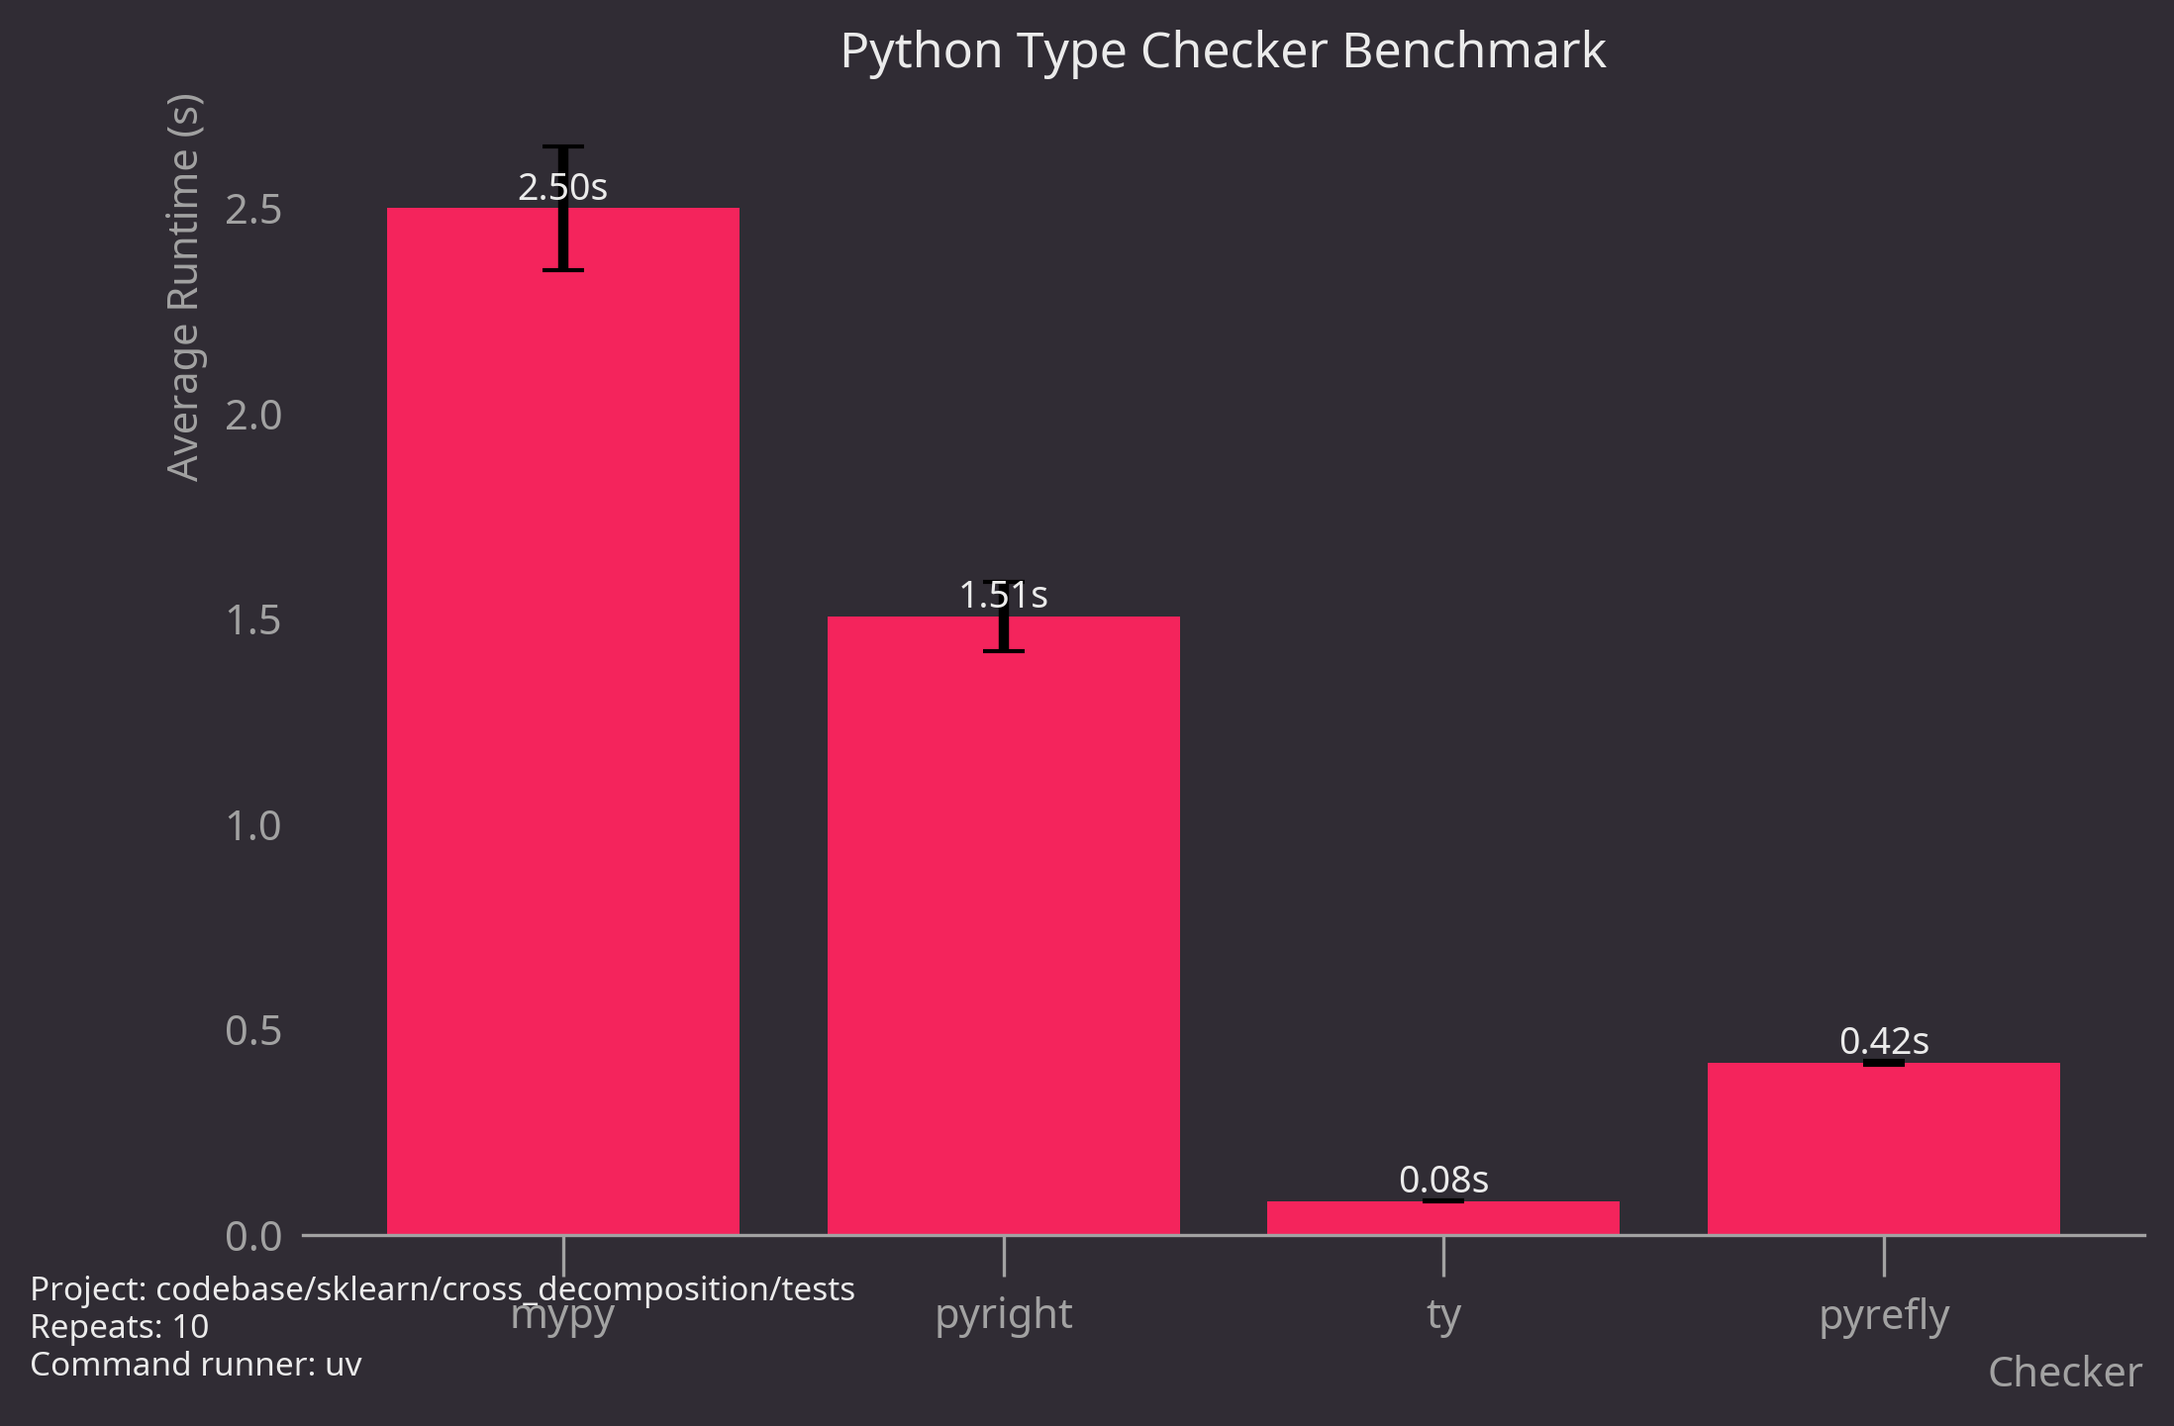
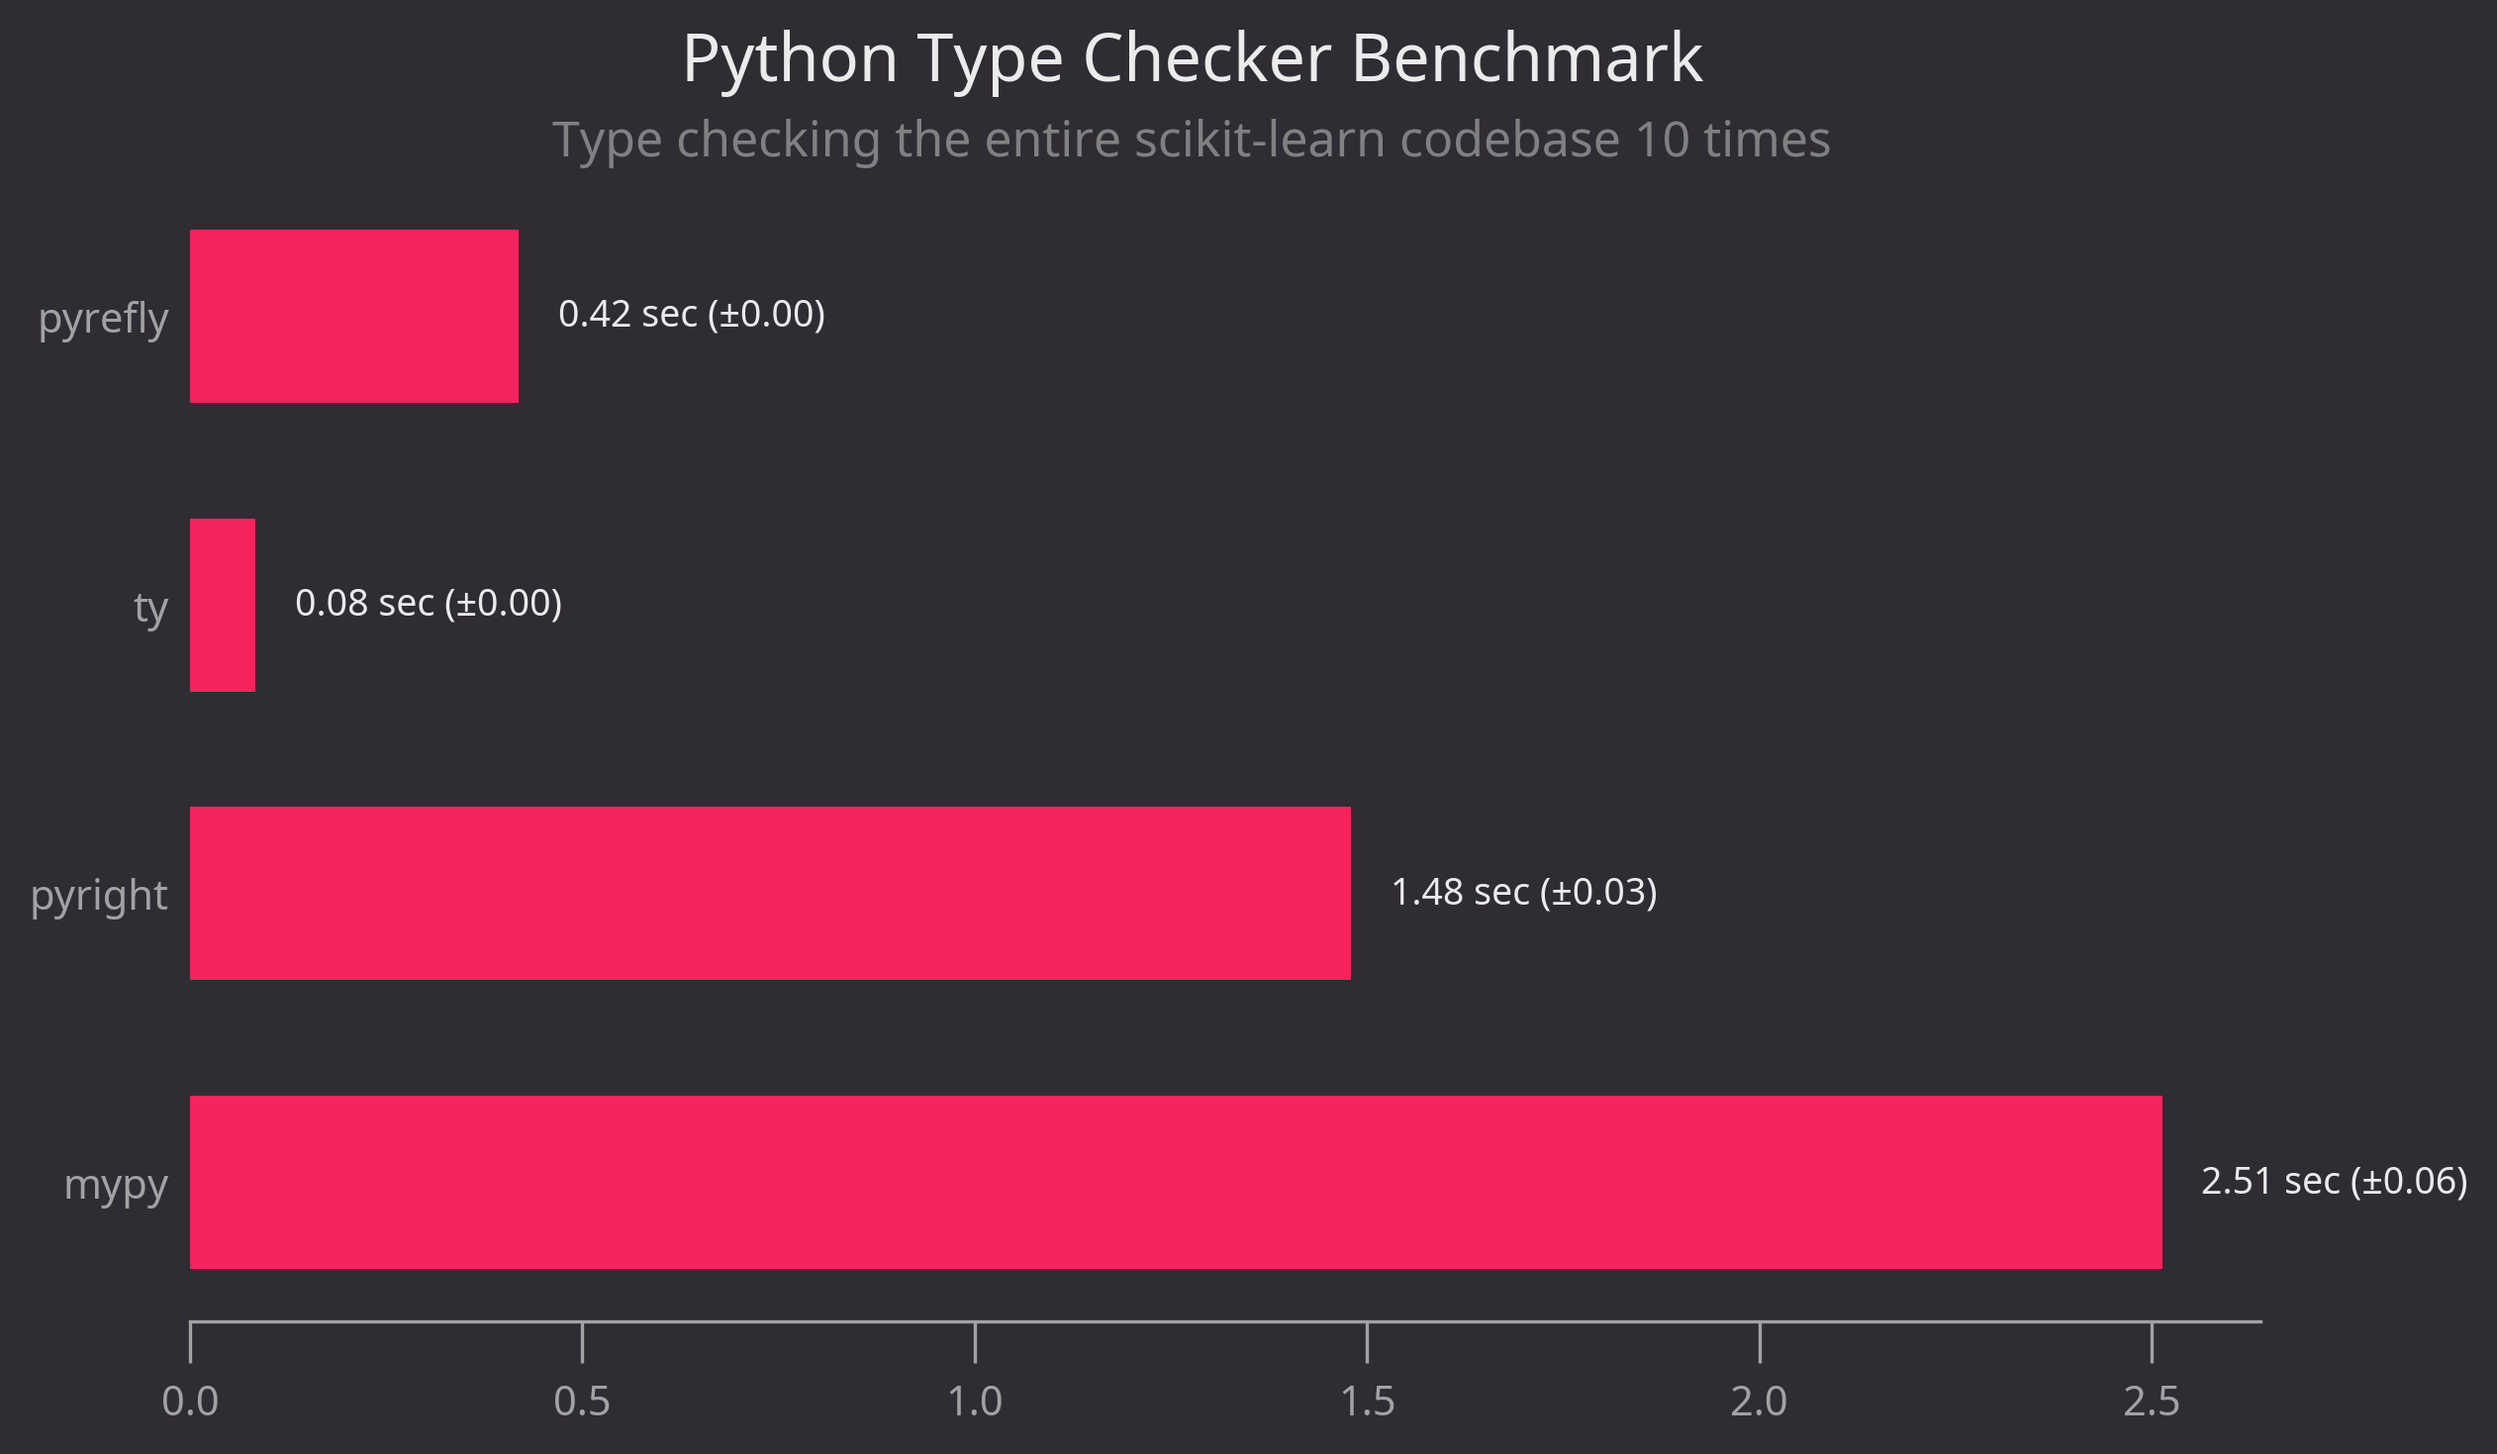
v0 ok

diff --git a/benchmark.py b/benchmark.py
@@ -1,4 +1,5 @@
 import subprocess
+import math
 import time
 import statistics
 import matplotlib.pyplot as plt
@@ -8,22 +9,21 @@ from pathlib import Path
 mt.set_theme("ft")
 
 REPO_URL = "https://github.com/scikit-learn/scikit-learn.git"
-TARGET_DIR = Path("codebase")
+TARGET_DIR: Path = Path("codebase")
 
 
-PROJECT_PATH = "codebase/sklearn/cross_decomposition/tests"
-CHECKERS = {
+PROJECT_PATH = "codebase"
+CHECKERS: dict = {
     "mypy": ["uv", "run", "mypy", PROJECT_PATH],
     "pyright": ["uv", "run", "pyright", PROJECT_PATH],
     "ty": ["uv", "run", "ty", "check", PROJECT_PATH],
     "pyrefly": ["uv", "run", "pyrefly", "check", PROJECT_PATH],
 }
-REPEATS = 10
+REPEATS = 5
 
 
 def run_benchmark(cmd):
-    times = []
-    print(PROJECT_PATH)
+    times: list = []
     for _ in range(REPEATS):
         start = time.perf_counter()
         subprocess.run(cmd, stdout=subprocess.DEVNULL, stderr=subprocess.DEVNULL)
@@ -42,7 +42,7 @@ def main():
         )
     print("Codebase ready at:", TARGET_DIR.resolve())
 
-    results = {}
+    results: dict = {}
     for name, cmd in CHECKERS.items():
         print(f"Running {name}...")
         mean, std = run_benchmark(cmd)
@@ -52,30 +52,45 @@ def main():
     for name, (mean, std) in results.items():
         print(f"{name:<10} {mean:.2f}s ± {std:.2f}s")
 
-    checkers = list(results.keys())
-    means = [results[c][0] for c in checkers]
-    stds = [results[c][1] for c in checkers]
+    checkers: list = list(results.keys())
+    means: list = [results[c][0] for c in checkers]
+    stds: list = [results[c][1] for c in checkers]
+    std_errors = [s / math.sqrt(REPEATS) if REPEATS > 1 else 0.0 for s in stds]
 
-    fig, ax = plt.subplots(figsize=(8, 5))
-    bars = ax.bar(checkers, means, yerr=stds, capsize=5)
-    ax.set_title("Python Type Checker Benchmark")
-    ax.set_ylabel("Average Runtime (s)")
-    ax.set_xlabel("Checker")
+    fig, ax = plt.subplots(figsize=(9, 5))
 
-    for bar, val in zip(bars, means):
+    bars = ax.barh(checkers, means, height=0.6)
+
+    for bar, val, se in zip(bars, means, std_errors):
         ax.text(
-            bar.get_x() + bar.get_width() / 2,
-            bar.get_height(),
-            f"{val:.2f}s",
-            ha="center",
-            va="bottom",
+            bar.get_width() + 0.05,
+            bar.get_y() + bar.get_height() / 2,
+            f"{val:.2f} sec (±{se:.2f})",
+            ha="left",
+            va="center",
             fontsize=9,
         )
 
-    text = f"Project: {PROJECT_PATH}\nRepeats: {REPEATS}\nCommand runner: uv"
-    fig.text(0.01, 0.01, text, fontsize=8, va="bottom", ha="left")
+    fig.text(
+        x=0.5,
+        y=0.98,
+        s="Python Type Checker Benchmark",
+        size=16,
+        ha="center",
+        va="top",
+    )
+
+    fig.text(
+        x=0.5,
+        y=0.92,
+        s=f"Type checking the entire scikit-learn codebase {REPEATS} times",
+        fontsize=12,
+        color="grey",
+        va="top",
+        ha="center",
+    )
+
     plt.savefig("benchmark.png", dpi=300, bbox_inches="tight")
-    plt.close()
 
 
 if __name__ == "__main__":

diff --git a/README.md b/README.md
@@ -2,6 +2,8 @@
 
 How long does it take to type check the [scikit-learn codebase](https://github.com/scikit-learn/scikit-learn)?
 
+![Barplot of a benchmark of all major Python type checkers](benchmark.png)
+
 This benchmark compares 4 Python type checkers
 
 - [mypy](https://github.com/python/mypy)
@@ -9,9 +11,11 @@ This benchmark compares 4 Python type checkers
 - [pyrefly](https://github.com/facebook/pyrefly)
 - [ty](https://github.com/astral-sh/ty)
 
+<br>
+
 ## Run the benchmark
 
-- Install type checkers
+- Install type checkers & plotting dependencies (matplotlib + theme)
 
 ```bash
 uv sync
